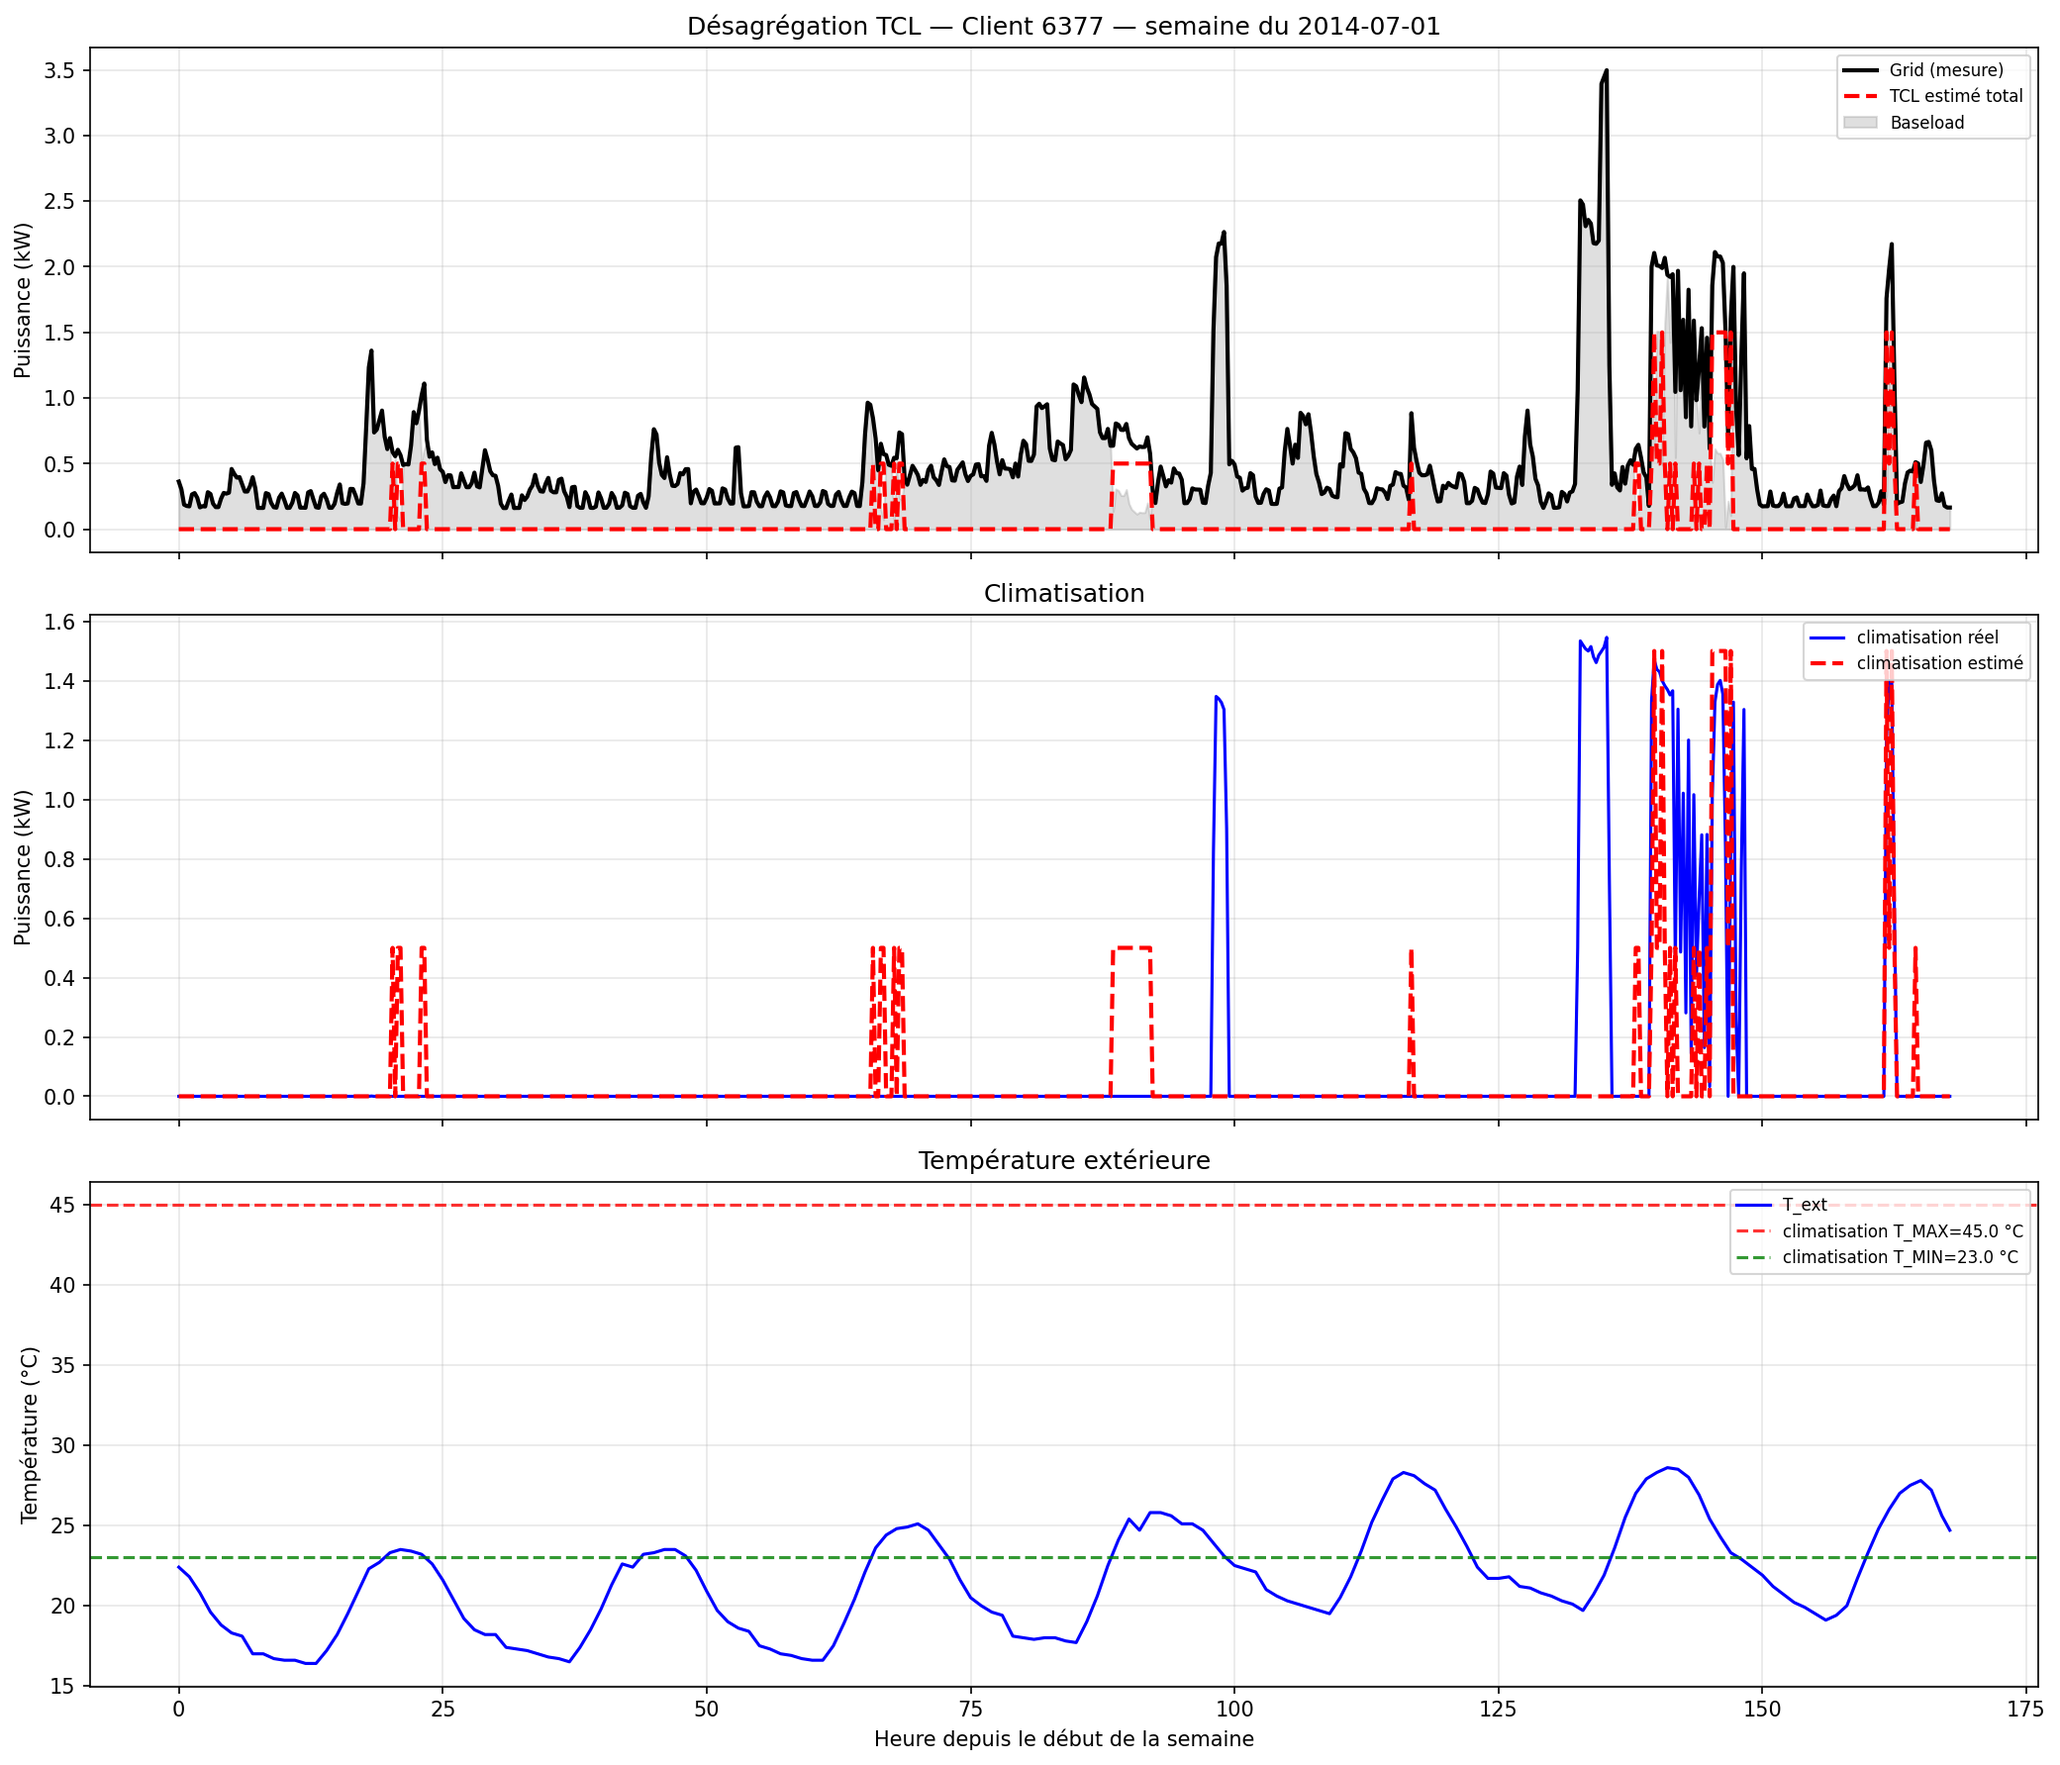
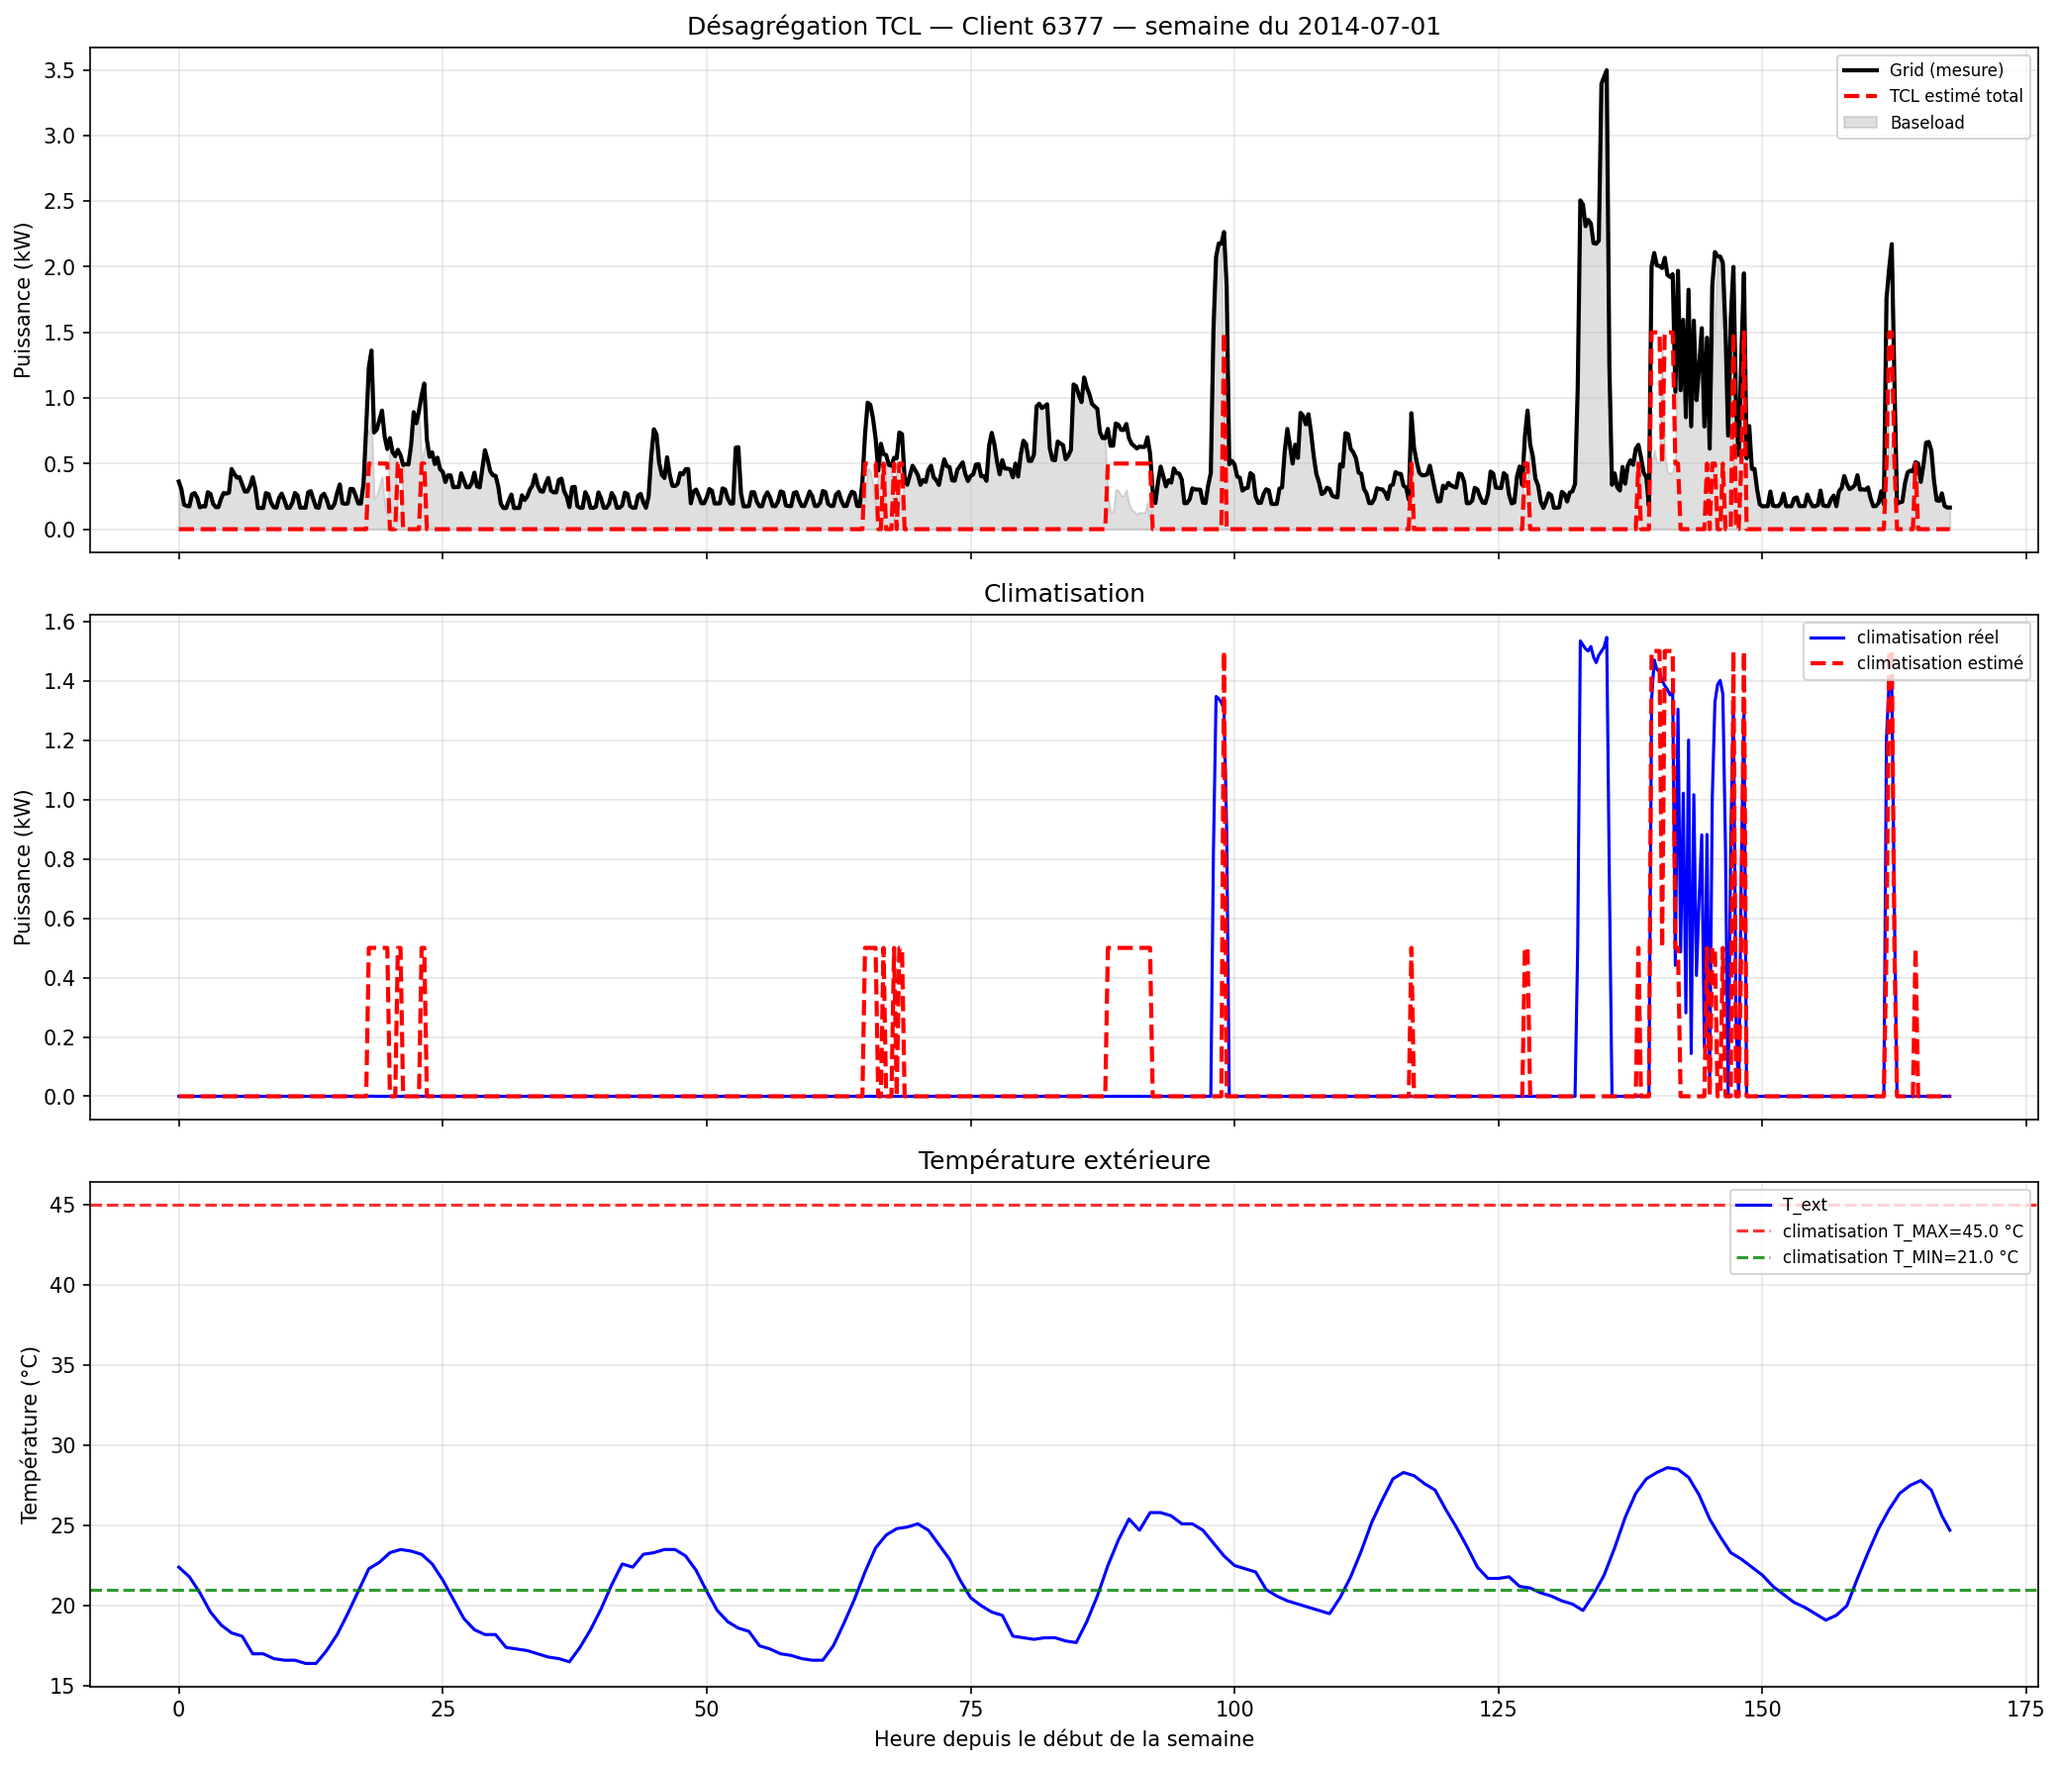
Nouveaux résultats

diff --git a/opti/optiUneSemaine.py b/opti/optiUneSemaine.py
@@ -456,7 +456,26 @@ def executer_client(
 # ─────────────────────────────────────────────────────────────────────────────
 # MAIN
 # ─────────────────────────────────────────────────────────────────────────────
-
+# ─────────────────────────────────────────────────────────────────────────────
+# LISTE DE RUNS (dataid, date_debut)
+# ─────────────────────────────────────────────────────────────────────────────
+RUNS = [
+    (3864, "2015-08-01"),
+    (3938, "2016-08-01"),
+    (4495, "2018-08-01"),
+    (4934, "2015-08-01"),
+    (5938, "2016-08-01"),
+    (6377, "2014-08-01"),
+    (6547, "2015-08-01"),
+    (7062, "2014-08-01"),
+    (7114, "2015-08-01"),
+    (8061, "2016-08-01"),
+    (8342, "2018-08-01"),
+    (8574, "2014-08-01"),
+    (8733, "2014-08-01"),
+    (9213, "2014-08-01"),
+    (9612, "2014-08-01"),
+]
 def main() -> None:
     parser = argparse.ArgumentParser(
         description="Désagrégation MICQP — TCLs sur une semaine",
@@ -466,19 +485,18 @@ Exemples :
   python optiUneSemaine.py
   python optiUneSemaine.py --dataid 1642
   python optiUneSemaine.py --dataid 1642 --date 2015-08-10
-  python optiUneSemaine.py --dataid 1642 --max_time 480x
-  python optiUneSemaine.py --dataid 1642 --gap 0.01
-  python optiUneSemaine.py --dataid 1642 --max_time 600 --gap 0.01
-  python optiUneSemaine.py --nb_clients 3
+  python optiUneSemaine.py --max_time 480
+  python optiUneSemaine.py --gap 0.01
+  python optiUneSemaine.py --batch          ← nouveau : roule tous les RUNS
         """,
     )
     parser.add_argument("--dataid",     type=int,   default=None)
     parser.add_argument("--date",       type=str,   default=DATE_DEBUT_PAR_DEFAUT)
     parser.add_argument("--nb_clients", type=int,   default=NB_CLIENTS_PAR_DEFAUT)
-    parser.add_argument("--max_time",   type=float, default=MAX_TIME_DEFAUT,
-        help=f"Temps max MOSEK en secondes (défaut : {MAX_TIME_DEFAUT:.0f} s)")
-    parser.add_argument("--gap",        type=float, default=GAP_DEFAUT,
-        help=f"Gap relatif MOSEK entre 0 et 1 (défaut : {GAP_DEFAUT} = {GAP_DEFAUT*100:.0f}%%)")
+    parser.add_argument("--max_time",   type=float, default=MAX_TIME_DEFAUT)
+    parser.add_argument("--gap",        type=float, default=GAP_DEFAUT)
+    parser.add_argument("--batch",      action="store_true",
+        help="Roule tous les runs définis dans RUNS (ignore --dataid et --date)")
     args = parser.parse_args()
 
     print("=" * 70)
@@ -489,31 +507,57 @@ Exemples :
     print(f"  Temps max      : {args.max_time:.0f} s")
     print(f"  Gap cible      : {args.gap * 100:.1f} %")
 
-    print("\n[1] Chargement des données...")
-    semaines_clients = charger_semaine_clients(
-        date_debut=args.date,
-        nb_clients=args.nb_clients,
-        dataid=args.dataid,
-    )
+    # ── Construire la liste de runs ──────────────────────────────────────────
+    if args.batch:
+        runs = RUNS
+        print(f"\n  Mode batch : {len(runs)} run(s) planifiés")
+        for i, (did, d) in enumerate(runs, 1):
+            print(f"    {i:2d}. dataid={did}  date={d}")
+    else:
+        runs = [(args.dataid, args.date)]
+        print(f"\n  Mode individuel : dataid={args.dataid}  date={args.date}")
 
-    for item in semaines_clients:
+    # ── Boucle sur tous les runs ─────────────────────────────────────────────
+    n_ok, n_err = 0, 0
+
+    for run_idx, (dataid_run, date_run) in enumerate(runs, 1):
+        print(f"\n{'━' * 70}")
+        print(f"RUN {run_idx}/{len(runs)} — dataid={dataid_run}  date={date_run}")
+        print(f"{'━' * 70}")
+
         try:
-            executer_client(
-                dataid    =item["dataid"],
-                date_debut=item["date_debut"],
-                df_client =item["df"],
-                max_time  =args.max_time,
-                gap       =args.gap,
+            print("\n[1] Chargement des données...")
+            semaines = charger_semaine_clients(
+                date_debut=date_run,
+                nb_clients=1,
+                dataid=dataid_run,
             )
+
+            for item in semaines:
+                executer_client(
+                    dataid    =item["dataid"],
+                    date_debut=item["date_debut"],
+                    df_client =item["df"],
+                    max_time  =args.max_time,
+                    gap       =args.gap,
+                )
+            n_ok += 1
+
         except KeyboardInterrupt:
-            print(f"\n⚠  Interruption — client {item['dataid']} abandonné.")
-            print("✔ Les clients précédents ont été sauvegardés dans output/")
+            print(f"\n⚠  Interruption au run {run_idx} — arrêt du batch.")
+            print(f"✔ {n_ok} run(s) complétés, résultats dans output/")
             break
+        except Exception as e:
+            print(f"\n✗ Run {run_idx} échoué : {e}")
+            n_err += 1
+            continue  # passe au run suivant sans tout arrêter
 
     print("\n" + "=" * 70)
-    print("✔ Pipeline terminé.")
+    print(f"✔ Pipeline terminé — {n_ok} succès, {n_err} échec(s).")
     print("=" * 70)
 
-
 if __name__ == "__main__":
+    import sys
+    if len(sys.argv) == 1:          # aucun argument → force le mode batch
+        sys.argv.append("--batch")
     main()

diff --git a/opti/métriques.py b/opti/métriques.py
@@ -84,6 +84,13 @@ def calculer_metriques(csv_path: str, seuil_on: float = 0.05) -> dict:
           else float("nan"))
     fpr = fp / (fp + tn) if (fp + tn) > 0 else float("nan")
 
+    # ── Gap relatif MOSEK ─────────────────────────────────────────────
+    gap_reel = float("nan")
+    if "gap_reel" in df.columns:
+        vals = pd.to_numeric(df["gap_reel"], errors="coerce").dropna()
+        if not vals.empty:
+            gap_reel = float(vals.iloc[0])
+
     # ── Info sur le fichier ───────────────────────────────────────────
     # Extraire dataid et date depuis le nom du fichier
     # Format : resultats_desagregation_<dataid>_<date>_7jours.csv
@@ -113,6 +120,7 @@ def calculer_metriques(csv_path: str, seuil_on: float = 0.05) -> dict:
         "TN"            : tn,
         "FP"            : fp,
         "FN"            : fn,
+        "Gap réel (%)" : round(gap_reel * 100, 2) if not np.isnan(gap_reel) else float("nan"),
     }
 
 
@@ -144,7 +152,7 @@ def sauvegarder_excel(resultats: list[dict], out_path: str) -> None:
     border = Border(left=thin, right=thin, top=thin, bottom=thin)
 
     # ── Titre ─────────────────────────────────────────────────────────
-    n_cols = 16
+    n_cols = 17
     ws.merge_cells(f"A1:{get_column_letter(n_cols)}1")
     ws["A1"] = "THERMO — Métriques de désagrégation (Climatisation)"
     ws["A1"].font      = font_(bold=True, color=WHITE, size=13)
@@ -157,6 +165,7 @@ def sauvegarder_excel(resultats: list[dict], out_path: str) -> None:
         "Fichier CSV", "Client", "Date début", "N pas",
         "RMSE (kW)", "MAE (kW)", "Energy Frac", "Norm Err",
         "Recall", "Precision", "F1", "FPR",
+        "Gap réel (%)",
         "TP", "TN", "FP", "FN",
     ]
     ws.row_dimensions[2].height = 32
@@ -172,6 +181,7 @@ def sauvegarder_excel(resultats: list[dict], out_path: str) -> None:
         "Fichier", "Client (dataid)", "Date début", "N pas",
         "RMSE (kW)", "MAE (kW)", "Energy Frac", "Norm Err",
         "Recall", "Precision", "F1", "FPR",
+        "Gap réel (%)",
         "TP", "TN", "FP", "FN",
     ]
     for i, row_data in enumerate(resultats, start=3):
@@ -208,7 +218,7 @@ def sauvegarder_excel(resultats: list[dict], out_path: str) -> None:
             cell.alignment = center
 
     # ── Largeurs colonnes ─────────────────────────────────────────────
-    col_widths = [42, 10, 12, 8, 10, 10, 12, 10, 10, 11, 10, 10, 7, 7, 7, 7]
+    col_widths = [42, 10, 12, 8, 10, 10, 12, 10, 10, 11, 10, 10, 12, 7, 7, 7, 7]
     for i, w in enumerate(col_widths, start=1):
         ws.column_dimensions[get_column_letter(i)].width = w
 
@@ -289,13 +299,13 @@ Exemples :
     df_res = pd.DataFrame(resultats)[[
         "Client (dataid)", "Date début",
         "RMSE (kW)", "MAE (kW)", "Energy Frac", "Norm Err",
-        "Recall", "F1", "FPR",
+        "Recall", "F1", "FPR", "Gap réel (%)",   # ← ajouter
     ]]
     print(df_res.to_string(index=False))
 
     # ── Moyennes ──────────────────────────────────────────────────────
     print("\n  Moyennes :")
-    for col in ["RMSE (kW)", "MAE (kW)", "Energy Frac", "Norm Err", "Recall", "F1", "FPR"]:
+    for col in ["RMSE (kW)", "MAE (kW)", "Energy Frac", "Norm Err", "Recall", "F1", "FPR", "Gap réel (%)"]:
         vals = pd.to_numeric(df_res[col], errors="coerce").dropna()
         if len(vals) > 0:
             print(f"    {col:<15} : {vals.mean():.4f}")

diff --git a/opti/parametres.py b/opti/parametres.py
@@ -90,7 +90,7 @@ def obtenir_parametres_defaut():
         'thermique': {
             'climatisation': {
                 'mode':      'climatisation',
-                'T_ext_MIN': 23.0,
+                'T_ext_MIN': 21.0,
                 'T_ext_MAX': 45.0, 
             },
             'chauffage': {
@@ -106,7 +106,7 @@ def obtenir_parametres_defaut():
         'duty_cycle': {
             'climatisation': {
                 'x_DUTY':       4.0,
-                'x_DUTY_prime': 4.0,
+                'x_DUTY_prime': 3.0,
             },
             'chauffage': {
                 'x_DUTY':       4.0,

diff --git a/opti/modele_opti.py b/opti/modele_opti.py
@@ -266,7 +266,7 @@ def resoudre_optimisation(modele, verbose=False):
             solver=cp.MOSEK,
             verbose=verbose,
             mosek_params={
-                'MSK_DPAR_MIO_TOL_REL_GAP': 0.25,  # 5% gap acceptable
+                'MSK_DPAR_MIO_TOL_REL_GAP': 0.70,  # 5% gap acceptable
                 
             }
         )
